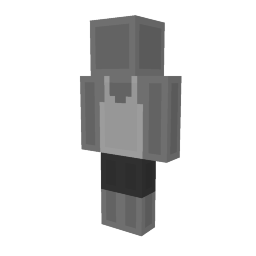
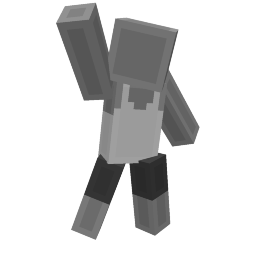
Updated emotes

Changed region(s): [[0.2188, 0.0, 0.7812, 0.9375]]

diff --git a/README.md b/README.md
@@ -105,6 +105,7 @@ This repository is scheduled to update every 6 hours automatically. A raw versio
 | <img src="./images/47362e9d-a1a6-6877-2aaa-245f783caf07.png" width="128" height="128" /> | Bark Bark | 47362e9d-a1a6-6877-2aaa-245f783caf07 |
 | <img src="./images/e267f2b5-f4db-4850-8ff0-4b3696d92336.png" width="128" height="128" /> | Basketball | e267f2b5-f4db-4850-8ff0-4b3696d92336 |
 | <img src="./images/bb5baae6-1694-42c0-9cc8-6ff4bb5503c6.png" width="128" height="128" /> | Batman Landing | bb5baae6-1694-42c0-9cc8-6ff4bb5503c6 |
+| <img src="./images/5bf11df3-97a9-e4aa-2276-291b92e7c012.png" width="128" height="128" /> | Battle Cry | 5bf11df3-97a9-e4aa-2276-291b92e7c012 |
 | <img src="./images/07cc3814-a2e3-47ae-cee1-1e68aad35817.png" width="128" height="128" /> | Battle Dance | 07cc3814-a2e3-47ae-cee1-1e68aad35817 |
 | <img src="./images/f8a5f2ad-7fac-195f-e8fe-8c0fcb31d18a.png" width="128" height="128" /> | Be a NINJA! | f8a5f2ad-7fac-195f-e8fe-8c0fcb31d18a |
 | <img src="./images/5a3db893-db64-b23a-5d36-6ba42855cddd.png" width="128" height="128" /> | Be a Superhero! | 5a3db893-db64-b23a-5d36-6ba42855cddd |
@@ -626,8 +627,6 @@ This repository is scheduled to update every 6 hours automatically. A raw versio
 | <img src="./images/e9ab2d64-615e-7067-1495-c6beb9fa410d.png" width="128" height="128" /> | Ice Dance | e9ab2d64-615e-7067-1495-c6beb9fa410d |
 | <img src="./images/ed6c9b79-9b19-4d18-aa7d-1b37f13109d7.png" width="128" height="128" /> | Ice Skating | ed6c9b79-9b19-4d18-aa7d-1b37f13109d7 |
 | <img src="./images/41dae449-ee61-1908-a681-1869ada47706.png" width="128" height="128" /> | Iconic Dance | 41dae449-ee61-1908-a681-1869ada47706 |
-| <img src="./images/238c8de3-766a-a419-a3dc-c23063ce680e.png" width="128" height="128" /> | Idaho emote 1 | 238c8de3-766a-a419-a3dc-c23063ce680e |
-| <img src="./images/5bf11df3-97a9-e4aa-2276-291b92e7c012.png" width="128" height="128" /> | Idaho emote 2 | 5bf11df3-97a9-e4aa-2276-291b92e7c012 |
 | <img src="./images/132153ae-66fb-d586-9e0f-71fb8369df9e.png" width="128" height="128" /> | Im Levitating | 132153ae-66fb-d586-9e0f-71fb8369df9e |
 | <img src="./images/34ad2ad5-44ba-2876-b3e2-9474221a04a4.png" width="128" height="128" /> | In Awe | 34ad2ad5-44ba-2876-b3e2-9474221a04a4 |
 | <img src="./images/892fa7e4-24e6-997e-8297-88b84e0cfa88.png" width="128" height="128" /> | Infinite Dab | 892fa7e4-24e6-997e-8297-88b84e0cfa88 |
@@ -683,6 +682,7 @@ This repository is scheduled to update every 6 hours automatically. A raw versio
 | <img src="./images/c4b85459-d763-46ba-ba3d-cc01a3c23a4e.png" width="128" height="128" /> | Just Griddy | c4b85459-d763-46ba-ba3d-cc01a3c23a4e |
 | <img src="./images/95207bbe-0824-4c76-b7b1-e11e9aa860a5.png" width="128" height="128" /> | K-Pop Dance | 95207bbe-0824-4c76-b7b1-e11e9aa860a5 |
 | <img src="./images/35ef5920-a8c5-e502-2a5a-b8a8f4a44770.png" width="128" height="128" /> | K-Pop Style | 35ef5920-a8c5-e502-2a5a-b8a8f4a44770 |
+| <img src="./images/238c8de3-766a-a419-a3dc-c23063ce680e.png" width="128" height="128" /> | Kadoosh! | 238c8de3-766a-a419-a3dc-c23063ce680e |
 | <img src="./images/f29ed70d-d8f0-00d7-45a5-c6857e44ba23.png" width="128" height="128" /> | Kamehameha | f29ed70d-d8f0-00d7-45a5-c6857e44ba23 |
 | <img src="./images/4108684b-7081-98d7-ba67-db688588c19a.png" width="128" height="128" /> | Kamehameha | 4108684b-7081-98d7-ba67-db688588c19a |
 | <img src="./images/880e4a06-f26e-638f-24de-7f34e1b1e5dd.png" width="128" height="128" /> | Kangaroo Dance | 880e4a06-f26e-638f-24de-7f34e1b1e5dd |
